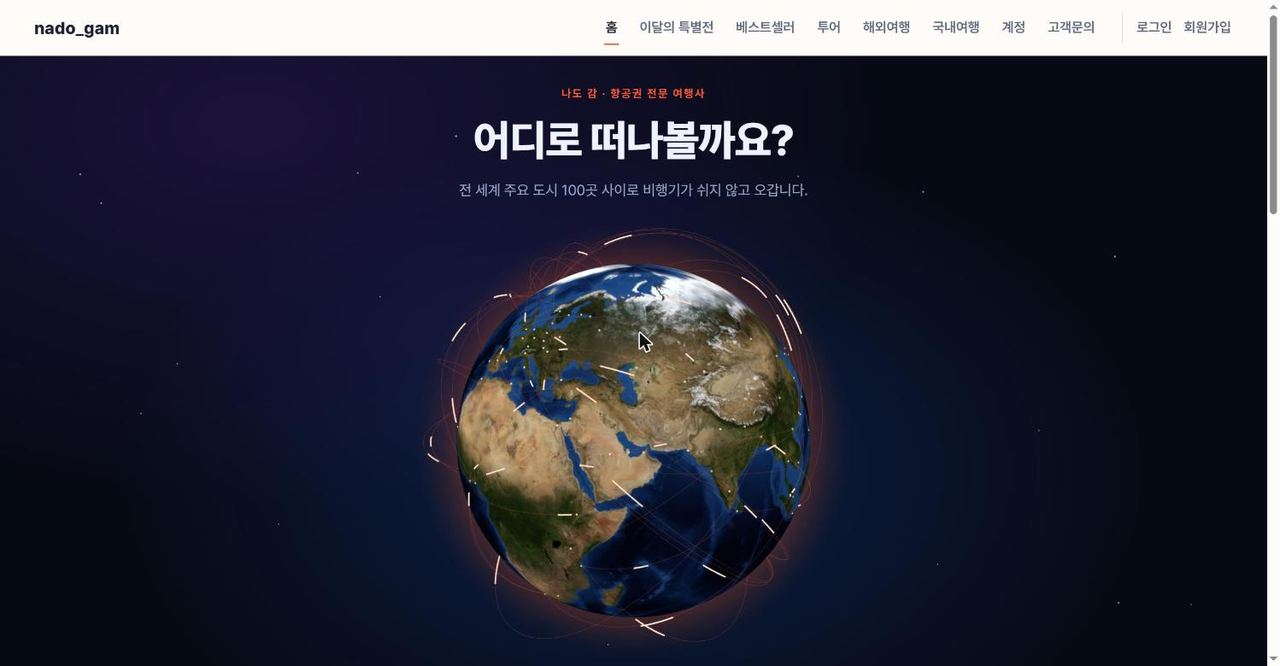
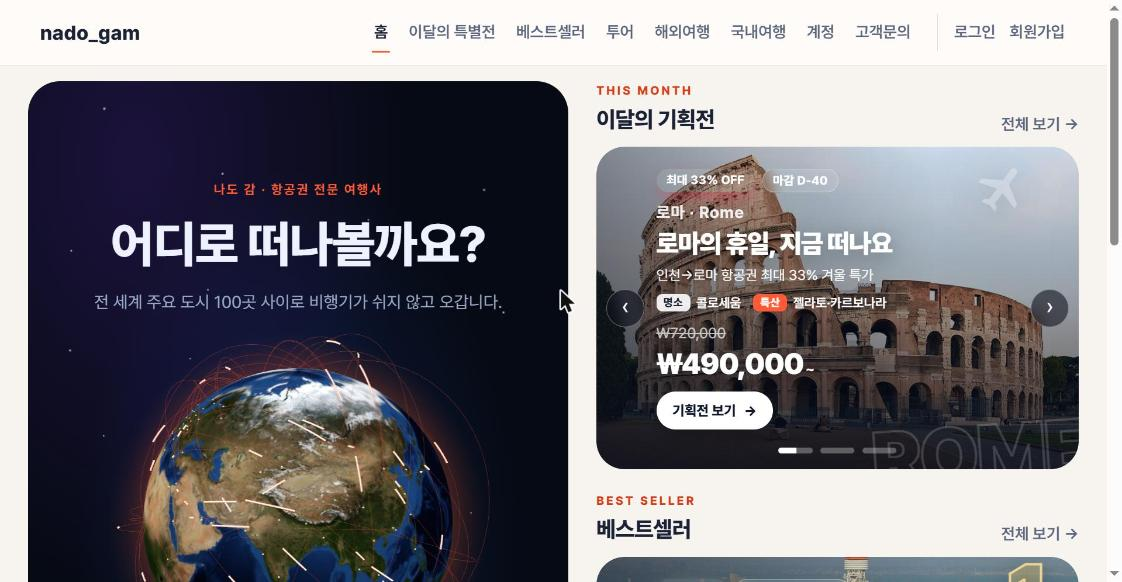
문서(README): 메인 좌우 배치 캡처·설명 갱신

diff --git a/README.md b/README.md
@@ -3,7 +3,7 @@
 > **"나도 갈래!"** — 가고 싶은 여행지를 고르면 항공편·투어·호텔·크루즈를 보여 주고, 비행 경로를 3D 지구본으로 보여 주는 여행사 웹 서비스입니다.
 > 취업 포트폴리오로 만든 4차 개인 프로젝트이며, **모든 항공사·편명·호텔·투어 브랜드·가격은 가상 데이터**입니다.
 
-![메인 지구본](docs/screenshots/01-home-globe.jpg)
+![메인: 왼쪽 지구본, 오른쪽 이달의 기획전·베스트셀러](docs/screenshots/01-home-globe.jpg)
 
 ## 한눈에 보기
 
@@ -19,7 +19,7 @@
 
 **사용자**
 
-- **메인**: 도는 지구본(어느 방향으로 돌려도 관성으로 계속 회전), 이달의 특별전·베스트셀러 캐로셀, 이벤트 팝업
+- **메인**: 왼쪽에 도는 지구본(어느 방향으로 돌려도 관성으로 계속 회전), 오른쪽에 이달의 특별전·베스트셀러 캐로셀(좁은 화면에서는 위아래로 쌓임), 이벤트 팝업
 - **해외 여행**: 여행지 선택(권역 탭·검색, 가격 낮은순·높은순·조회수순·인기순·여행사 추천순 정렬) → 출발지 선택 → 직항/경유·정렬 → 항공편 상세, 마우스를 올리면 지구본에 경로 강조
 - **투어**: 해외 109개·국내 30개, 3테마(음식과 주류 / 스포츠와 액티비티 / 예술과 휴식), 대륙·국가 필터, 정렬(가격 낮은순·높은순·조회수순·인기순·여행사 추천순), 기간별 옵션과 일정. 카드는 왼쪽 여행지 전경 + 오른쪽 테마 사진(음식·경기장·명소)을 사선으로 나눠 보여 줍니다
 - **국내여행**: 10개 도시, 서울·대전 출발 이동편(기차·버스·항공), 숙소·투어
@@ -44,8 +44,8 @@
 |---|---|
 | ![해외 여행지](docs/screenshots/03-travel-list.jpg) | ![여행지 상세](docs/screenshots/04-travel-detail.jpg) |
 | 해외 여행지 98곳 카드 (대표 관광지 사진 · 명소/특산 · 정렬) | 여행지 상세와 항공편 선택 단계 |
-| ![특별전 캐로셀](docs/screenshots/02-home-carousel.jpg) | ![투어 상세](docs/screenshots/05-tour-detail.jpg) |
-| 이달의 특별전 캐로셀 | 투어 상세(기간별 옵션, 인천 출발 노선) |
+| ![메인 캐로셀](docs/screenshots/02-home-carousel.jpg) | ![투어 상세](docs/screenshots/05-tour-detail.jpg) |
+| 메인의 지구본과 베스트셀러 캐로셀(기획전·베스트셀러는 오른쪽에 나란히) | 투어 상세(기간별 옵션, 인천 출발 노선) |
 | ![국내여행](docs/screenshots/06-domestic.jpg) | ![투어 목록](docs/screenshots/07-tour-list.jpg) |
 | 국내여행 10개 도시 | 투어 목록: 대륙·국가 필터와 반분할 카드(여행지 전경 + 테마 사진) |
 
